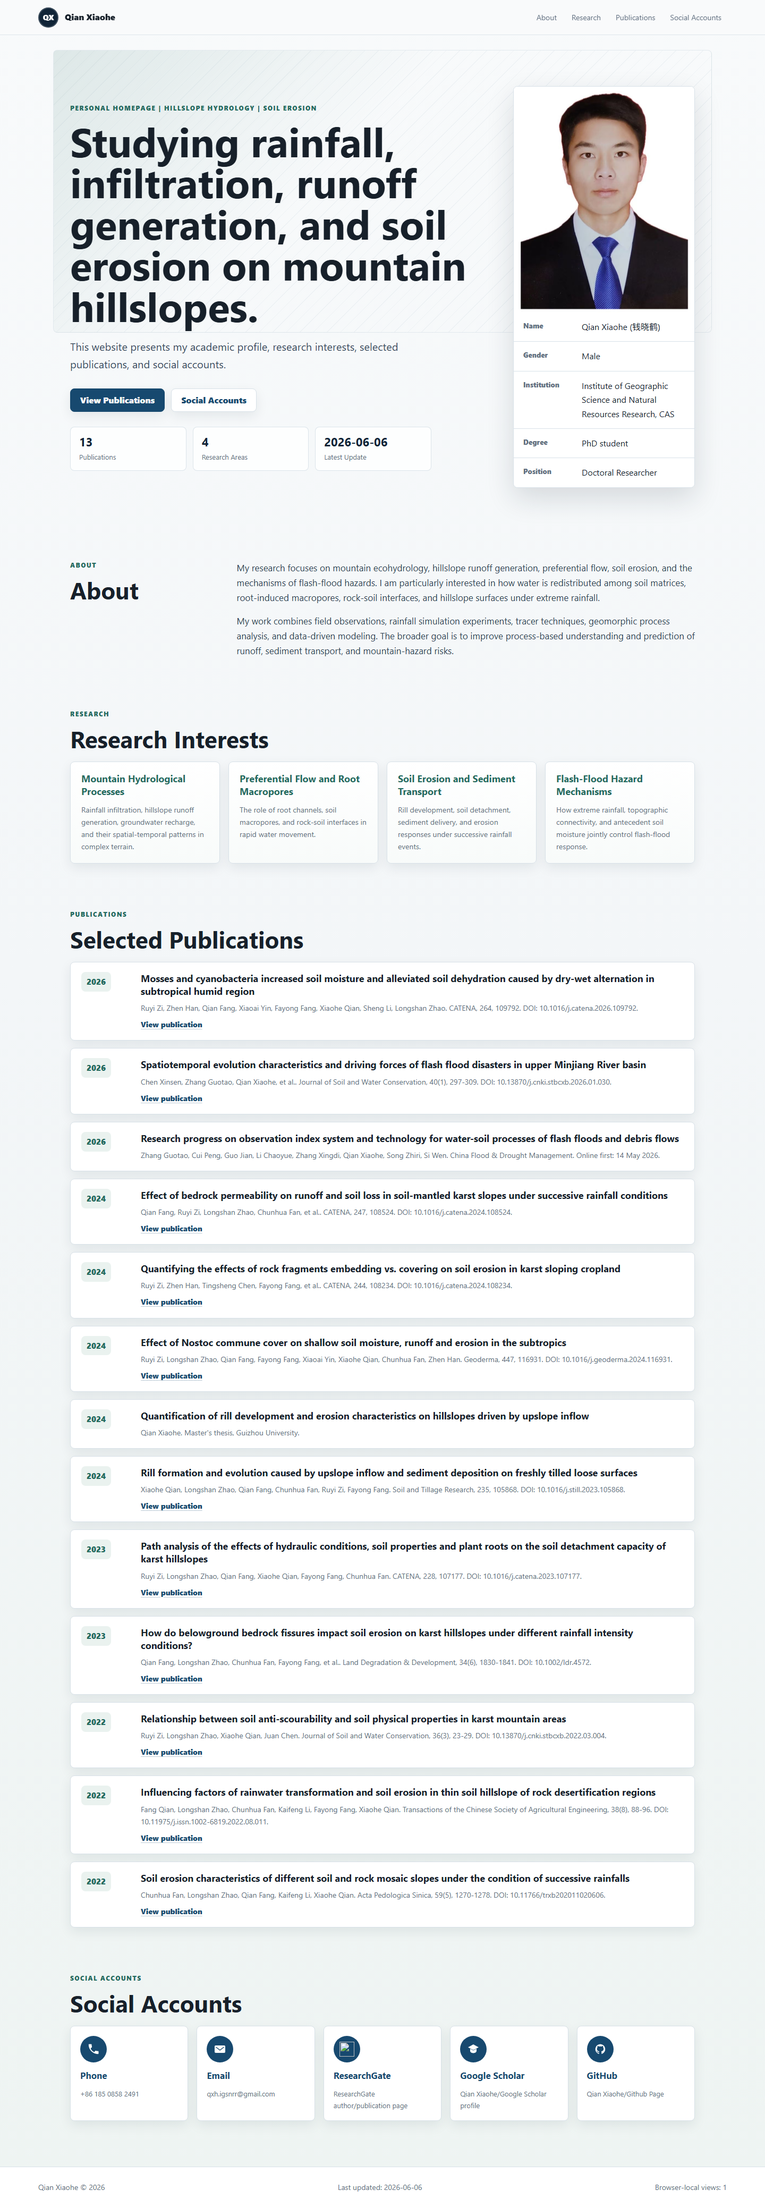
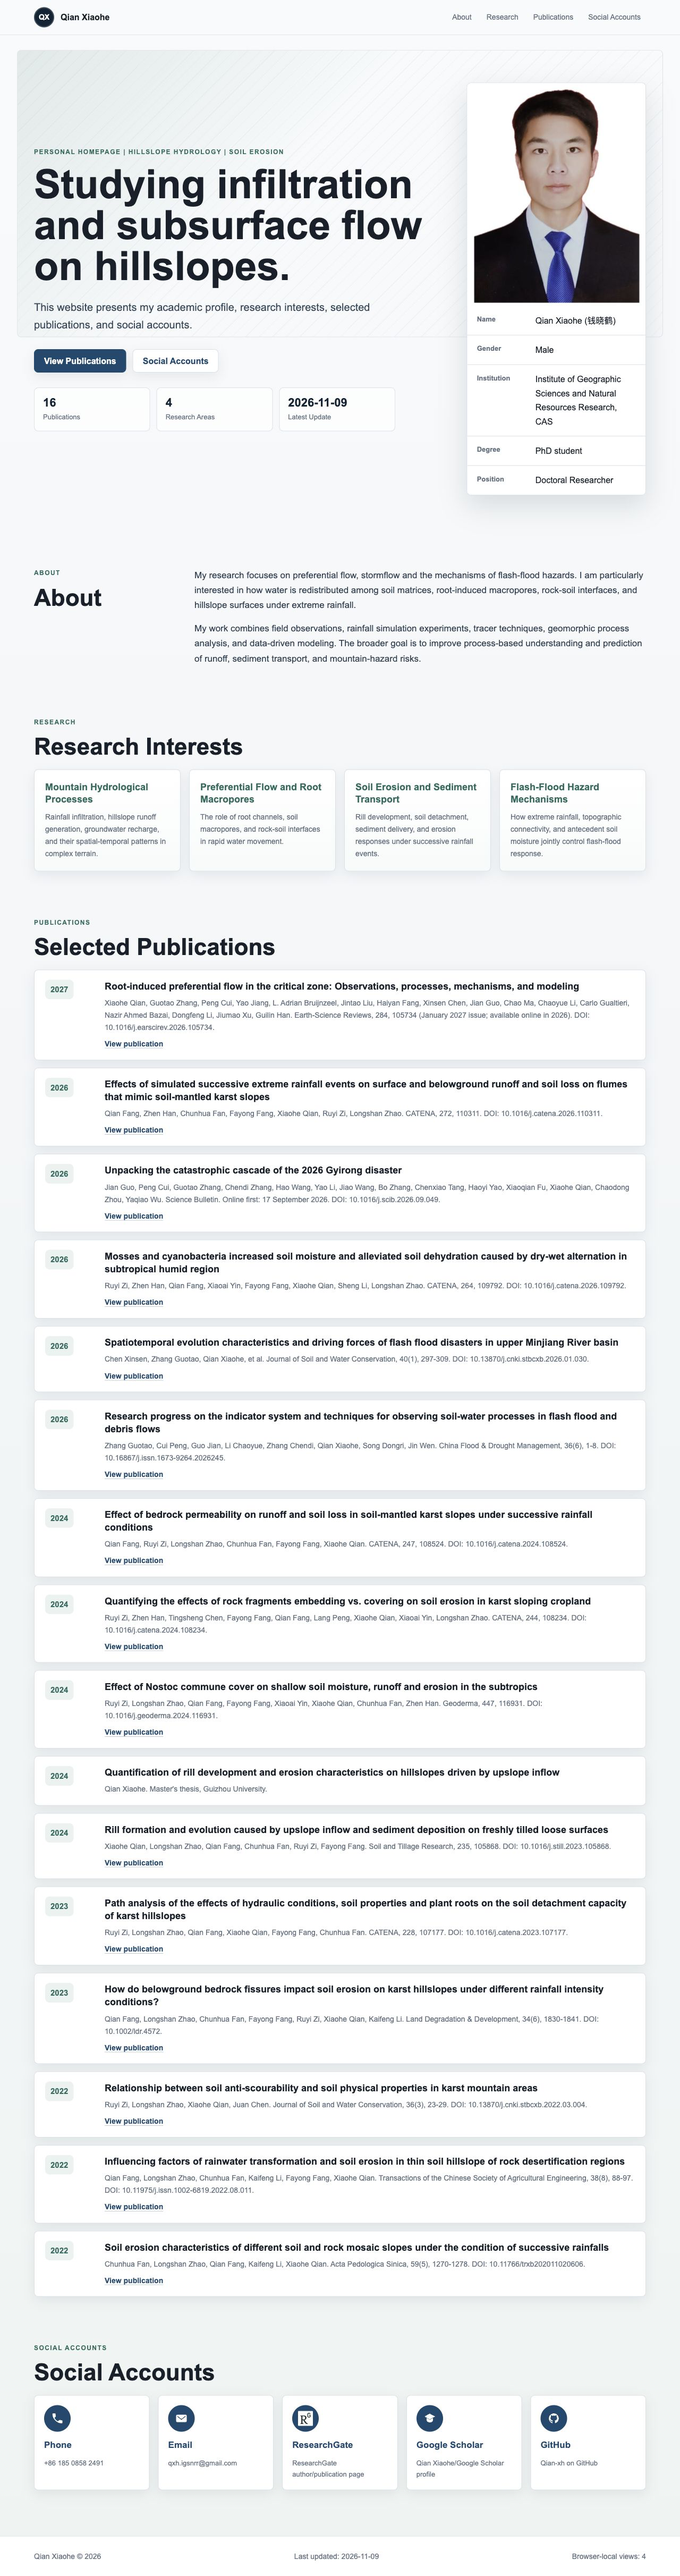
Verify publications, add ESR review and missing articles, and refresh homepage preview

Changed region(s): [[0.0625, 0.0311, 0.9688, 0.9629], [0.0312, 0.0311, 0.625, 0.1864], [0.0625, 0.0, 0.0938, 0.0311]]

diff --git a/data.js b/data.js
@@ -1,11 +1,11 @@
 window.siteData = {
-  lastUpdated: "2026-06-06",
+  lastUpdated: "2026-11-09",
   profile: {
     displayName: "Qian Xiaohe",
     chineseName: "\u94b1\u6653\u9e64",
     initials: "QX",
     gender: "Male",
-    institution: "Institute of Geographic Science and Natural Resources Research, CAS",
+    institution: "Institute of Geographic Sciences and Natural Resources Research, CAS",
     degree: "PhD student",
     title: "Doctoral Researcher",
     avatar: "assets/qian-xiaohe-photo.png",
@@ -38,6 +38,27 @@ window.siteData = {
   ],
   publications: [
     {
+      "year": "2027",
+      "title": "Root-induced preferential flow in the critical zone: Observations, processes, mechanisms, and modeling",
+      "authors": "Xiaohe Qian, Guotao Zhang, Peng Cui, Yao Jiang, L. Adrian Bruijnzeel, Jintao Liu, Haiyan Fang, Xinsen Chen, Jian Guo, Chao Ma, Chaoyue Li, Carlo Gualtieri, Nazir Ahmed Bazai, Dongfeng Li, Jiumao Xu, Guilin Han",
+      "venue": "Earth-Science Reviews, 284, 105734 (January 2027 issue; available online in 2026). DOI: 10.1016/j.earscirev.2026.105734",
+      "link": "https://doi.org/10.1016/j.earscirev.2026.105734"
+    },
+    {
+      "year": "2026",
+      "title": "Effects of simulated successive extreme rainfall events on surface and belowground runoff and soil loss on flumes that mimic soil-mantled karst slopes",
+      "authors": "Qian Fang, Zhen Han, Chunhua Fan, Fayong Fang, Xiaohe Qian, Ruyi Zi, Longshan Zhao",
+      "venue": "CATENA, 272, 110311. DOI: 10.1016/j.catena.2026.110311",
+      "link": "https://doi.org/10.1016/j.catena.2026.110311"
+    },
+    {
+      "year": "2026",
+      "title": "Unpacking the catastrophic cascade of the 2026 Gyirong disaster",
+      "authors": "Jian Guo, Peng Cui, Guotao Zhang, Chendi Zhang, Hao Wang, Yao Li, Jiao Wang, Bo Zhang, Chenxiao Tang, Haoyi Yao, Xiaoqian Fu, Xiaohe Qian, Chaodong Zhou, Yaqiao Wu",
+      "venue": "Science Bulletin. Online first: 17 September 2026. DOI: 10.1016/j.scib.2026.09.049",
+      "link": "https://doi.org/10.1016/j.scib.2026.09.049"
+    },
+    {
       year: "2026",
       title: "Mosses and cyanobacteria increased soil moisture and alleviated soil dehydration caused by dry-wet alternation in subtropical humid region",
       authors: "Ruyi Zi, Zhen Han, Qian Fang, Xiaoai Yin, Fayong Fang, Xiaohe Qian, Sheng Li, Longshan Zhao",
@@ -47,28 +68,28 @@ window.siteData = {
     {
       year: "2026",
       title: "Spatiotemporal evolution characteristics and driving forces of flash flood disasters in upper Minjiang River basin",
-      authors: "Chen Xinsen, Zhang Guotao, Qian Xiaohe, et al.",
+      authors: "Chen Xinsen, Zhang Guotao, Qian Xiaohe, et al",
       venue: "Journal of Soil and Water Conservation, 40(1), 297-309. DOI: 10.13870/j.cnki.stbcxb.2026.01.030",
       link: "https://www.stbcxb.com.cn/en/article/doi/10.13870/j.cnki.stbcxb.2026.01.030/"
     },
     {
       year: "2026",
-      title: "Research progress on observation index system and technology for water-soil processes of flash floods and debris flows",
-      authors: "Zhang Guotao, Cui Peng, Guo Jian, Li Chaoyue, Zhang Xingdi, Qian Xiaohe, Song Zhiri, Si Wen",
-      venue: "China Flood & Drought Management. Online first: 14 May 2026",
-      link: ""
+      title: "Research progress on the indicator system and techniques for observing soil-water processes in flash flood and debris flows",
+      authors: "Zhang Guotao, Cui Peng, Guo Jian, Li Chaoyue, Zhang Chendi, Qian Xiaohe, Song Dongri, Jin Wen",
+      venue: "China Flood & Drought Management, 36(6), 1-8. DOI: 10.16867/j.issn.1673-9264.2026245",
+      link: "https://cfdm.cn/cn/article/doi/10.16867/j.issn.1673-9264.2026245"
     },
     {
       year: "2024",
       title: "Effect of bedrock permeability on runoff and soil loss in soil-mantled karst slopes under successive rainfall conditions",
-      authors: "Qian Fang, Ruyi Zi, Longshan Zhao, Chunhua Fan, et al.",
+      authors: "Qian Fang, Ruyi Zi, Longshan Zhao, Chunhua Fan, Fayong Fang, Xiaohe Qian",
       venue: "CATENA, 247, 108524. DOI: 10.1016/j.catena.2024.108524",
       link: "https://doi.org/10.1016/j.catena.2024.108524"
     },
     {
       year: "2024",
       title: "Quantifying the effects of rock fragments embedding vs. covering on soil erosion in karst sloping cropland",
-      authors: "Ruyi Zi, Zhen Han, Tingsheng Chen, Fayong Fang, et al.",
+      authors: "Ruyi Zi, Zhen Han, Tingsheng Chen, Fayong Fang, Qian Fang, Lang Peng, Xiaohe Qian, Xiaoai Yin, Longshan Zhao",
       venue: "CATENA, 244, 108234. DOI: 10.1016/j.catena.2024.108234",
       link: "https://doi.org/10.1016/j.catena.2024.108234"
     },
@@ -103,7 +124,7 @@ window.siteData = {
     {
       year: "2023",
       title: "How do belowground bedrock fissures impact soil erosion on karst hillslopes under different rainfall intensity conditions?",
-      authors: "Qian Fang, Longshan Zhao, Chunhua Fan, Fayong Fang, et al.",
+      authors: "Qian Fang, Longshan Zhao, Chunhua Fan, Fayong Fang, Ruyi Zi, Xiaohe Qian, Kaifeng Li",
       venue: "Land Degradation & Development, 34(6), 1830-1841. DOI: 10.1002/ldr.4572",
       link: "https://doi.org/10.1002/ldr.4572"
     },
@@ -112,13 +133,13 @@ window.siteData = {
       title: "Relationship between soil anti-scourability and soil physical properties in karst mountain areas",
       authors: "Ruyi Zi, Longshan Zhao, Xiaohe Qian, Juan Chen",
       venue: "Journal of Soil and Water Conservation, 36(3), 23-29. DOI: 10.13870/j.cnki.stbcxb.2022.03.004",
-      link: "http://www.stbcxb.com.cn/thesisDetails#10.13870/j.cnki.stbcxb.2022.03.004"
+      link: "https://www.stbcxb.com.cn/en/article/doi/10.13870/j.cnki.stbcxb.2022.03.004/"
     },
     {
       year: "2022",
       title: "Influencing factors of rainwater transformation and soil erosion in thin soil hillslope of rock desertification regions",
-      authors: "Fang Qian, Longshan Zhao, Chunhua Fan, Kaifeng Li, Fayong Fang, Xiaohe Qian",
-      venue: "Transactions of the Chinese Society of Agricultural Engineering, 38(8), 88-96. DOI: 10.11975/j.issn.1002-6819.2022.08.011",
+      authors: "Qian Fang, Longshan Zhao, Chunhua Fan, Kaifeng Li, Fayong Fang, Xiaohe Qian",
+      venue: "Transactions of the Chinese Society of Agricultural Engineering, 38(8), 88-97. DOI: 10.11975/j.issn.1002-6819.2022.08.011",
       link: "https://www.aeeisp.com/nygcxb/en/article/Y2022/I8/88"
     },
     {
@@ -157,8 +178,8 @@ window.siteData = {
     {
       label: "GitHub",
       icon: "github",
-      value: "Qian Xiaohe/Github Page",
-      url: "https://github.com/search?q=%22Qian+Xiaohe%22&type=users"
+      value: "Qian-xh on GitHub",
+      url: "https://github.com/Qian-xh"
     }
   ]
 };

diff --git a/index.html b/index.html
@@ -79,7 +79,7 @@
       <span id="view-counter" aria-live="polite"></span>
     </footer>
 
-    <script src="data.js?v=taste-refresh-20260619"></script>
-    <script src="app.js?v=taste-refresh-20260619"></script>
+    <script src="data.js?v=publications-20261109"></script>
+    <script src="app.js?v=publications-20261109"></script>
   </body>
 </html>

diff --git a/PUBLICATION_AUDIT.md b/PUBLICATION_AUDIT.md
@@ -1,0 +1,41 @@
+# Publication verification — 9 November 2026
+
+## Scope and result
+
+Reviewed all 13 existing entries (12 journal articles and one master's thesis). Added three journal articles, bringing the list to 16 entries (15 journal articles and one thesis). The list is selected publications; completeness beyond the sources below is not guaranteed.
+
+## Changes supported by sources
+
+- Added **Effects of simulated successive extreme rainfall events on surface and belowground runoff and soil loss on flumes that mimic soil-mantled karst slopes**, CATENA 272 (2026), 110311. Authors and issue metadata: [Crossref](https://api.crossref.org/works/10.1016%2Fj.catena.2026.110311), [publisher](https://www.sciencedirect.com/science/article/abs/pii/S0341816226005217).
+- Added **Unpacking the catastrophic cascade of the 2026 Gyirong disaster**, Science Bulletin, online first 17 September 2026. All 14 authors verified. Volume and pages were not available in the checked record and have not been invented. [PubMed](https://pubmed.ncbi.nlm.nih.gov/42864163/), [Crossref](https://api.crossref.org/works/10.1016%2Fj.scib.2026.09.049).
+- Updated the flash-flood/debris-flow observation review from online first to **China Flood & Drought Management 36(6), 1–8 (2026)**, added DOI and article link, and used the publisher's English title. Corrected Zhang Xingdi → Zhang Chendi, Song Zhiri → Song Dongri, and Si Wen → Jin Wen. [Publisher](https://cfdm.cn/cn/article/doi/10.16867/j.issn.1673-9264.2026245).
+- Completed author lists for CATENA 247, 108524; CATENA 244, 108234; and Land Degradation & Development 34(6), 1830–1841. The abbreviated lists previously hid Xiaohe Qian. [Crossref: bedrock permeability](https://api.crossref.org/works/10.1016%2Fj.catena.2024.108524), [Crossref: rock fragments](https://api.crossref.org/works/10.1016%2Fj.catena.2024.108234), [Wiley: bedrock fissures](https://onlinelibrary.wiley.com/doi/10.1002/ldr.4572).
+- Corrected Transactions of the Chinese Society of Agricultural Engineering 38(8) pages **88–96 → 88–97** and normalized Fang Qian to Qian Fang to match the given-name/family-name convention of the other English author lists. [Publisher](https://www.aeeisp.com/nygcxb/en/article/Y2022/I8/88).
+- Replaced the outdated HTTP/hash link for the 2022 anti-scourability article with the current HTTPS article page. [Publisher](https://www.stbcxb.com.cn/en/article/doi/10.13870/j.cnki.stbcxb.2022.03.004/).
+- Corrected the institution's English name to **Institute of Geographic Sciences and Natural Resources Research**, matching the affiliation in the review article.
+- Replaced the GitHub user-search link with the confirmed profile URL.
+- Updated the content date and script cache versions.
+
+## Verified without bibliographic changes
+
+- Mosses/cyanobacteria: CATENA 264 (2026), 109792, including all eight authors. [Publisher](https://www.sciencedirect.com/science/article/pii/S0341816226000020).
+- Upper Minjiang River basin: Journal of Soil and Water Conservation 40(1) (2026), 297–309. The publisher citation abbreviates authors after the first three; that convention is retained. [Publisher](https://www.stbcxb.com.cn/en/article/doi/10.13870/j.cnki.stbcxb.2026.01.030/).
+- Nostoc commune: Geoderma 447 (2024), 116931. [Crossref](https://api.crossref.org/works/10.1016%2Fj.geoderma.2024.116931).
+- Rill formation: Soil and Tillage Research 235 (**2024**), 105868. The DOI contains 2023, but the issue year is 2024; retained 2024 and the existing local PDF link. [Crossref](https://api.crossref.org/works/10.1016%2Fj.still.2023.105868).
+- Path analysis: CATENA 228 (2023), 107177. [Crossref](https://api.crossref.org/works/10.1016%2Fj.catena.2023.107177).
+- Bedrock fissures: retained the 2023 issue year, despite first online publication in December 2022. [Wiley](https://onlinelibrary.wiley.com/doi/10.1002/ldr.4572).
+- Anti-scourability: Journal of Soil and Water Conservation 36(3) (2022), 23–29. [Publisher](https://www.stbcxb.com.cn/en/article/doi/10.13870/j.cnki.stbcxb.2022.03.004/).
+- Soil/rock mosaic slopes: Acta Pedologica Sinica 59(5) (2022), 1270–1278; five authors match the journal's PDF. The HTML article timed out during this audit. [Journal PDF](https://cdn.sciengine.com/doi/pdf/40538BA4924E4D41AFD0EF9F666D5417).
+- The 2024 Guizhou University thesis title, author, institution and year match the indexed record. Its English title remains an existing translation; no authoritative English title or public full-text link was established. [CNKI index](https://cnki.istiz.org.cn/kcms/detail/search.aspx?dbcode=CJFD&sfield=kw&skey=%E7%BB%86%E6%B2%9F%E4%BE%B5%E8%9A%80).
+
+## Separate item requiring author follow-up
+
+**Effect of Sediment Deposition on Inflow-Induced Rill Erosion Process Based on Close-Range Photogrammetry** (2025), DOI [10.2139/ssrn.5105503](https://doi.org/10.2139/ssrn.5105503). Crossref classifies this as a preprint with seven authors: Xiaohe Qian, Longshan Zhao, Qian Fang, Ruyi Zi, Fayong Fang, Jin Chen, Zhen Han. No verified journal successor was found in this audit. It has not been added to the journal publication list. Confirm whether to display preprints separately or provide the final publication DOI.
+
+## Maintenance convention
+
+Prefer journal issue year for fully assigned articles, explicitly label online-first articles, and never infer a publication year from the DOI string. Crossref does not cover all Chinese journal DOIs; a missing Crossref record alone is not evidence that a DOI is invalid.
+
+## ESR review added after author follow-up
+
+Added **Root-induced preferential flow in the critical zone: Observations, processes, mechanisms, and modeling**, with Xiaohe Qian as first author and all 16 authors verified against the publisher and Crossref. Earth-Science Reviews **284, 105734**, assigned to the **January 2027** issue, although already available online in 2026. Listed under 2027 consistently with the issue-year convention above. [Publisher](https://www.sciencedirect.com/science/article/pii/S0012825226003454), [Crossref](https://api.crossref.org/works/10.1016%2Fj.earscirev.2026.105734).
